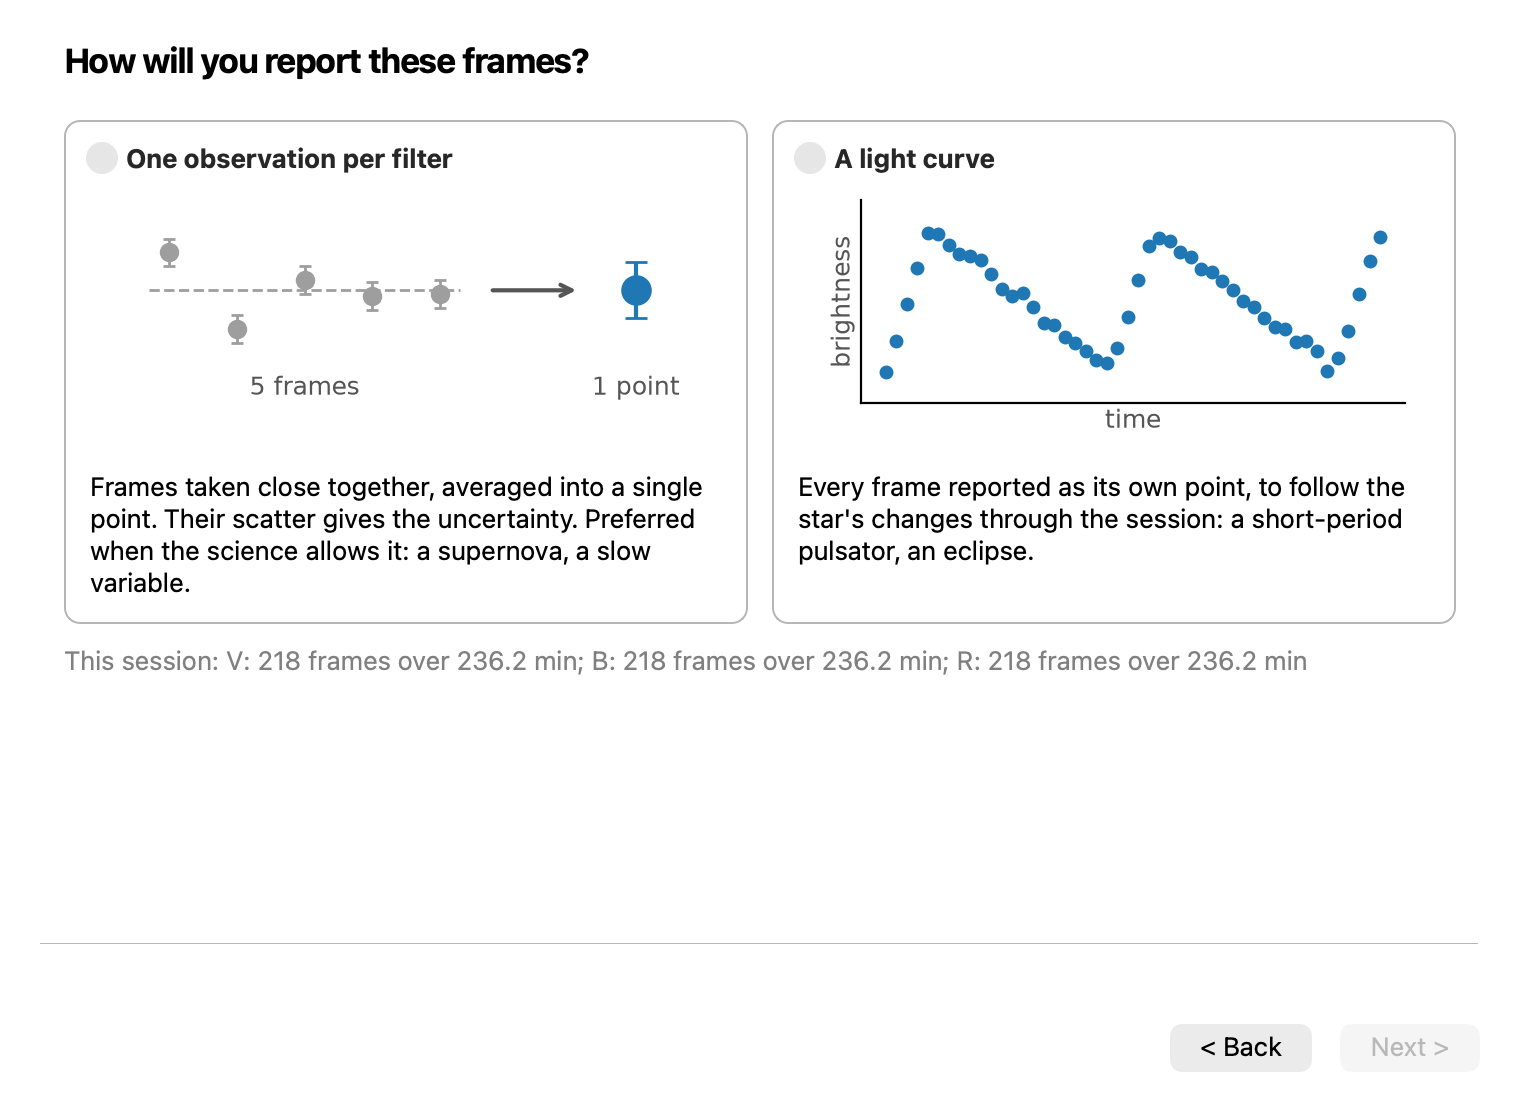
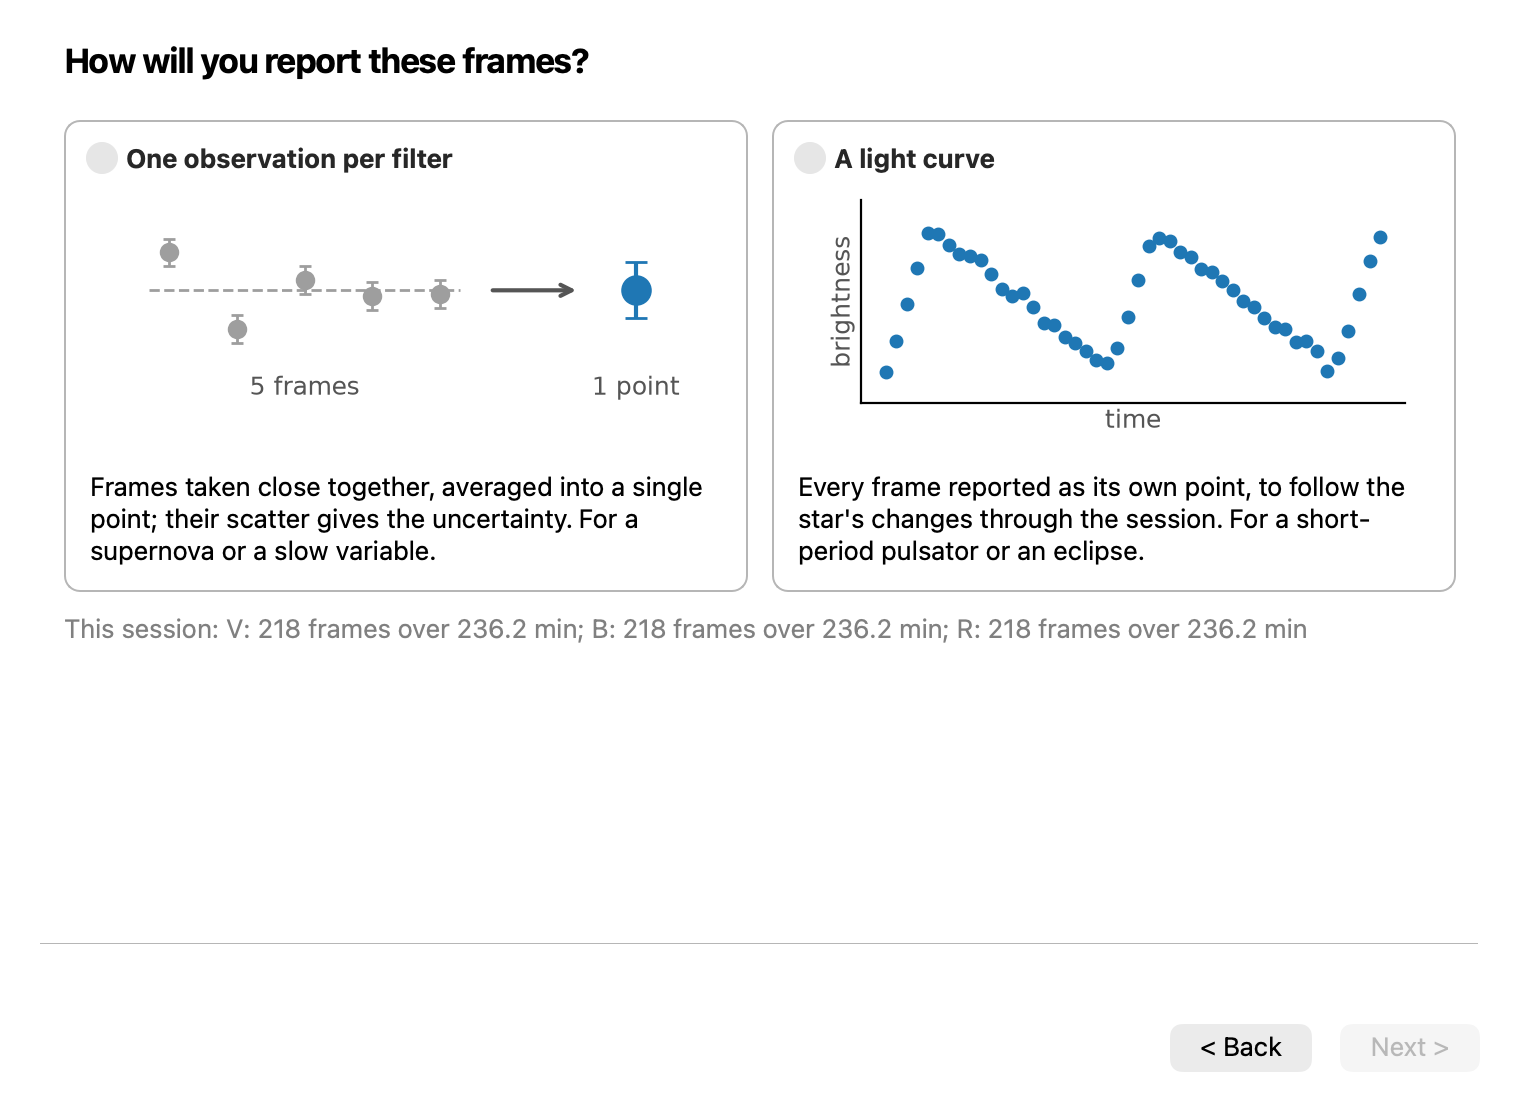
Wizard cards: each describes only its own use case

Changed region(s): [[0.0309, 0.4375, 0.8658, 0.5938], [0.5257, 0.4688, 0.7421, 0.5], [0.8039, 0.4375, 0.9276, 0.4688]]

diff --git a/src/photometry_workbench/ui/submission_wizard.py b/src/photometry_workbench/ui/submission_wizard.py
@@ -174,14 +174,14 @@ class _CombinePage(QWizardPage):
         combine = _ChoiceCard(
             "One observation per filter",
             combine_diagram(),
-            "Frames taken close together, averaged into a single point. Their scatter gives the "
-            "uncertainty. Preferred when the science allows it: a supernova, a slow variable.",
+            "Frames taken close together, averaged into a single point; their scatter gives the "
+            "uncertainty. For a supernova or a slow variable.",
         )
         light_curve = _ChoiceCard(
             "A light curve",
             light_curve_diagram(),
             "Every frame reported as its own point, to follow the star's changes through the "
-            "session: a short-period pulsator, an eclipse.",
+            "session. For a short-period pulsator or an eclipse.",
         )
         self.choice = QButtonGroup(self)
         for i, card in enumerate((combine, light_curve)):
